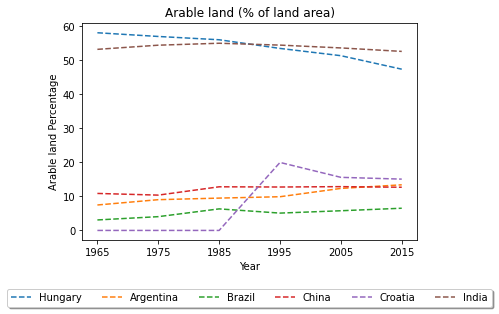
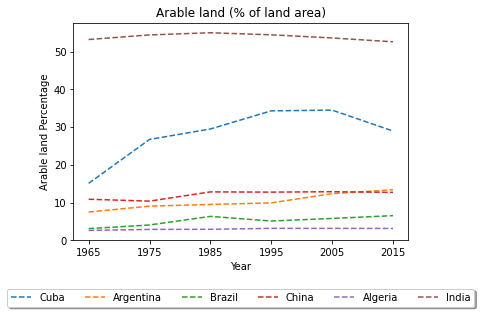
updates in code

diff --git a/Population.py b/Population.py
@@ -37,21 +37,10 @@ def barGraph(df,columns, xlabel, ylabel, title):
 #A function to plot the line graph
 def linegraph(df,columns, xlabel, ylabel, title): 
     """
-    The linegraph function used to plot line grpah.
+    The linegraph function is used to plot line grpah.
     The plot represents the total percentage of Co2 emissions from solid fuel consumption
-    in each selected contries   
+    percentage and the Arable land Percentage in each selected contries   
     """
-    df = df.loc[:, ['Country Name','1965', '1975', '1985', '1995', '2005', '2015']].reset_index(drop=True).fillna(0.0)
-    df=df.set_index('Country Name').transpose()
-    df['Years'] = df.index
-    temp_cols=df.columns.tolist()
-    new_cols=temp_cols[-1:] + temp_cols[:-1]
-    df=df[new_cols]
-    df=df.reset_index(drop=True)
-    df= df.rename_axis(None, axis=1)
-
-    labels = df['Years']
-    print(columns)
     x=df['Years']
     i=0
     plt.figure()
@@ -65,45 +54,77 @@ def linegraph(df,columns, xlabel, ylabel, title):
     plt.show()    
 
 
+def piegraph(df):
+    
+    """
+    The piegraph function is used to plot pie chart. 
+    The pie graph represents the mean of population growth in each selected
+    countries.
+    """ 
+    plt.figure()
+    df.groupby(['Country Name']).sum().plot(
+    kind='pie', y='Population', autopct='%1.0f%%',startangle=180)
+    plt.legend(loc='upper center', bbox_to_anchor=(0.5, -0.05),fancybox=True, shadow=True, ncol=6)
+    plt.title('Mean population growth')
+    plt.show()
+
+#A function to create a dataframe with average of population growth in each country
+def FindAverage(df):
+    
+    """
+    The FindAverage function is used to find the mean of population growth
+    in each countries.
+    """
+    Countries = df["Country Name"]
+    for c in Countries:
+        df['Population']=df.mean(axis=1)
+    df=df.loc[:, ['Country Name','Population']].reset_index(drop=True)
+    print(df)
+    piegraph(df)
+
+#reading the data set 
+def ReadandReturnData(filename,indicatorName):
+    
+    """
+    The ReadandReturnData function is used to read the filename and 
+    indicator name to return two dataframe df1 and df2, one with 
+    countries as column(df1) and the other with years as column(df2).
+    """
+    Data = pd.read_csv(filename,sep='\t',skiprows=4,engine='python')
+    df_Data = pd.DataFrame(Data)
+    df1= df_Data.loc[df_Data['Indicator Name'].isin([indicatorName])]
+    df1 = df1.loc[df1['Country Code'].isin(['CUB','BRA','IND','ARG','DZA','CHN'])]
+    df1 = df1.loc[:, ['Country Name','1965', '1975', '1985', '1995', '2005', '2015']].reset_index(drop=True).fillna(0.0)
+    df2=df1.set_index('Country Name').transpose()
+    df2['Years'] = df2.index
+    temp_cols=df2.columns.tolist()
+    new_cols=temp_cols[-1:] + temp_cols[:-1]
+    df2=df2[new_cols]
+    df2=df2.reset_index(drop=True)
+    df2= df2.rename_axis(None, axis=1)
+    return df1,df2    
 
 
-#reading the data set    
-dataloc="Dataset.csv"
-Data = pd.read_csv("Dataset.csv",sep='\t',skiprows=4,engine='python')
-df_Data = pd.DataFrame(Data)
-
-#Choosing indicator (Urban population (% of total population)) and updating dataframe according to that
-urbanPopulation = df_Data.loc[df_Data['Indicator Name'].isin(["Urban population (% of total population)"])]
-df_urbanPopulation = urbanPopulation.dropna()
-df_urbanPopulationSelected = df_urbanPopulation.loc[df_urbanPopulation['Country Code'].isin(['HUN','BRA','IND','ARG','HRV','CHN'])]
-df_population = df_urbanPopulationSelected.loc[:, ['Country Name','1965', '1975', '1985', '1995', '2005', '2015']].reset_index(drop=True)
-
-#Choosing indicator (Agricultural land (% of land area)) and updating dataframe according to that
-df_agriculturalLand = df_Data.loc[df_Data['Indicator Name'].isin(["Agricultural land (% of land area)"])]
-df_agriculturalLandSelected = df_agriculturalLand.loc[df_agriculturalLand['Country Code'].isin(['HUN','BRA','IND','ARG','HRV','CHN'])]
-df_agriculturalLand = df_agriculturalLandSelected.loc[:, ['Country Name','1965', '1975', '1985', '1995', '2005', '2015']].reset_index(drop=True)
+#reading data set
+filename = "Dataset.csv"
 years=['1965','1975','1985','1995','2005','2015']
+Countries=['Cuba','Argentina','Brazil','China','Algeria','India']
 
-
-#Choosing indicator (Agricultural land (% of land area)) and updating dataframe according to that
-df_Co2emmission = df_Data.loc[df_Data['Indicator Name'].isin(["CO2 emissions from solid fuel consumption (% of total)"])]
-df_Co2emmission = df_Co2emmission.loc[df_Co2emmission['Country Code'].isin(['HUN','BRA','IND','ARG','HRV','CHN'])]
-Countries=['Hungary','Argentina','Brazil','China','Croatia','India']
-
-#Choosing indicator (Agricultural land (% of land area)) and updating dataframe according to that
-df_Arable = df_Data.loc[df_Data['Indicator Name'].isin(["Arable land (% of land area)"])]
-df_Arable = df_Arable.loc[df_Arable['Country Code'].isin(['HUN','BRA','IND','ARG','HRV','CHN'])]
-Countries=['Hungary','Argentina','Brazil','China','Croatia','India']
+#Calling function to create dataframe according to the indicators
+df_urbanPopulation,df_urbanPopTrans=ReadandReturnData(filename,"Urban population (% of total population)")
+df_AgriculturalLand,df_AgriculturalLandTrans=ReadandReturnData(filename,"Agricultural land (% of land area)")
+df_CO2Emissions,df_CO2EmissionsTrans=ReadandReturnData(filename,"CO2 emissions from solid fuel consumption (% of total)")
+df_ArableLand,df_ArableLandTrans=ReadandReturnData(filename,"Arable land (% of land area)")
+df_Population,df_PopulationTrans=ReadandReturnData(filename,"Population growth (annual %)")
 
 #Calling functions to plot the grpahs
-barGraph(df_population,years,'Country','Population Percentage','Urban population (% of total population)')
-barGraph(df_agriculturalLand,years,'Country','Agricultural land Area Percentage','Agricultural land (% of land area)')
-linegraph(df_Co2emmission,Countries,'Year','CO2 Emission Percentage','CO2 emissions from solid fuel consumption (% of total)')
-linegraph(df_Arable,Countries,'Year','Arable land Percentage','Arable land (% of land area)')
+barGraph(df_urbanPopulation,years,'Country','Population Percentage','Urban population (% of total population)')
+barGraph(df_AgriculturalLand,years,'Country','Agricultural land Area Percentage','Agricultural land (% of land area)')
+linegraph(df_CO2EmissionsTrans,Countries,'Year','CO2 Emission Percentage','CO2 emissions from solid fuel consumption (% of total)')
+linegraph(df_ArableLandTrans,Countries,'Year','Arable land Percentage','Arable land (% of land area)')
 
-
-
-
+#Calling function find the mean of population growth
+FindAverage(df_Population)
 
 
 
